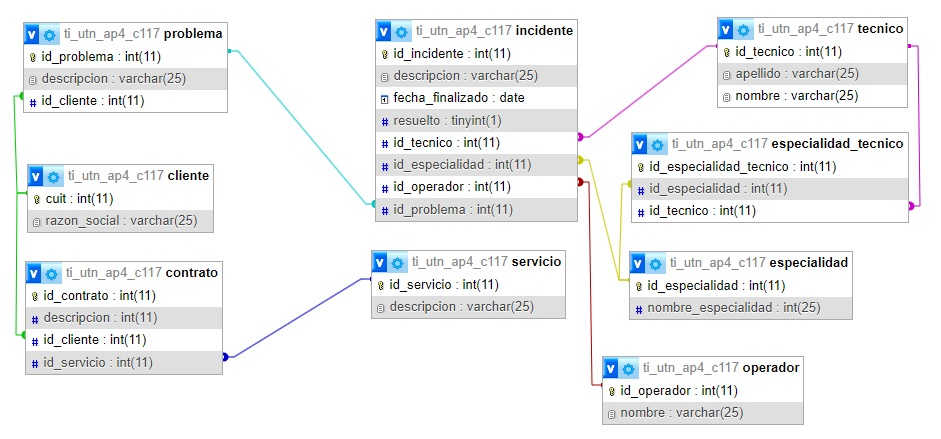
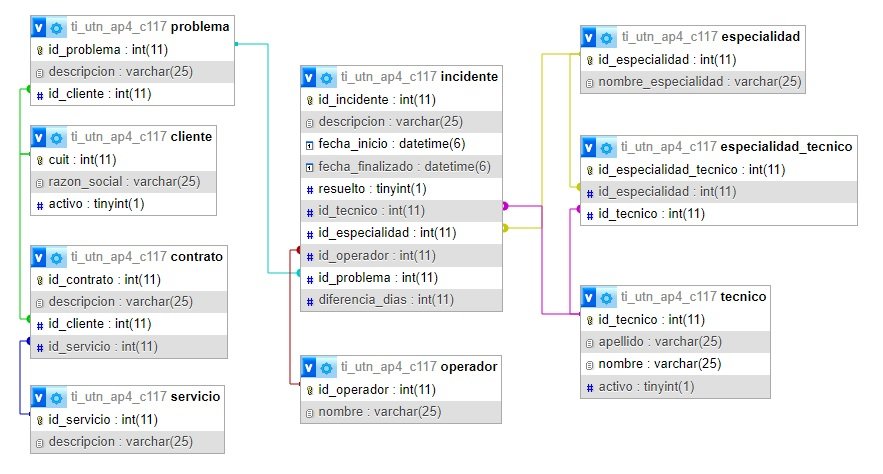
Diferencia de fechas arreglado e imagen DB actualizado

diff --git a/src/main/java/org/example/entidades/Incidente.java b/src/main/java/org/example/entidades/Incidente.java
@@ -1,6 +1,9 @@
 package org.example.entidades;
 
 import jakarta.persistence.*;
+import java.time.LocalDate;
+import java.time.ZoneId;
+import java.time.temporal.ChronoUnit;
 import java.util.Date;
 import org.example.states.EstadoIncidente;
 import org.example.states.Pendiente;
@@ -50,12 +53,12 @@ public class Incidente {
         this.estado = resuelto ? new Resuelto() : new Pendiente();
     }
 
-    public Incidente(String descripcion, Date fecha_inicio, Date fecha_finalizado, boolean resuelto, int diferencia_dias, Tecnico tecnico, Especialidad especialidad, Operador operador, Problema problema) {
+    public Incidente(String descripcion, Date fecha_inicio, Date fecha_finalizado, boolean resuelto, Tecnico tecnico, Especialidad especialidad, Operador operador, Problema problema) {
         this.descripcion = descripcion;
         this.fecha_inicio = fecha_inicio;
         this.fecha_finalizado = fecha_finalizado;
         this.resuelto = resuelto;
-        this.diferencia_dias = (int) (fecha_finalizado.getTime() - fecha_inicio.getTime());
+        this.diferencia_dias = setearDiferenciaFechas();
         this.tecnico = tecnico;
         this.especialidad = especialidad;
         this.operador = operador;
@@ -66,13 +69,13 @@ public class Incidente {
 
     }
 
-    public Incidente(int id_incidente, String descripcion, Date fecha_inicio, Date fecha_finalizado, boolean resuelto, int diferencia_dias, Tecnico tecnico, Especialidad especialidad, Operador operador, Problema problema) {
+    public Incidente(int id_incidente, String descripcion, Date fecha_inicio, Date fecha_finalizado, boolean resuelto, Tecnico tecnico, Especialidad especialidad, Operador operador, Problema problema) {
         this.id_incidente = id_incidente;
         this.descripcion = descripcion;
         this.fecha_inicio = fecha_inicio;
         this.fecha_finalizado = fecha_finalizado;
         this.resuelto = resuelto;
-        this.diferencia_dias = (int) (fecha_finalizado.getTime() - fecha_inicio.getTime());
+        this.diferencia_dias = setearDiferenciaFechas();
         this.tecnico = tecnico;
         this.especialidad = especialidad;
         this.operador = operador;
@@ -179,6 +182,15 @@ public class Incidente {
     public void iniciarIncidente() {
         estado.iniciarIncidente(this);
         this.resuelto = false;
+    }
+
+    private int setearDiferenciaFechas() {
+
+        LocalDate fechaInicio = fecha_inicio.toInstant().atZone(ZoneId.systemDefault()).toLocalDate();
+        LocalDate fechaFinal = fecha_finalizado.toInstant().atZone(ZoneId.systemDefault()).toLocalDate();
+        int diasDiferencia = (int) ChronoUnit.DAYS.between(fechaFinal, fechaInicio);
+
+        return diasDiferencia;
     }
 
 }

diff --git a/src/main/java/org/example/Main.java b/src/main/java/org/example/Main.java
@@ -7,6 +7,7 @@ import org.example.accesodatos.IncidenteDAO;
 import org.example.entidades.Especialidad;
 import org.example.entidades.Incidente;
 import org.example.entidades.Tecnico;
+import org.example.logica.Logica;
 
 public class Main {
 

diff --git a/src/main/java/org/example/logica/Logica.java b/src/main/java/org/example/logica/Logica.java
@@ -1,4 +1,4 @@
-package org.example;
+package org.example.logica;
 
 import java.time.LocalDate;
 import java.time.ZoneId;
